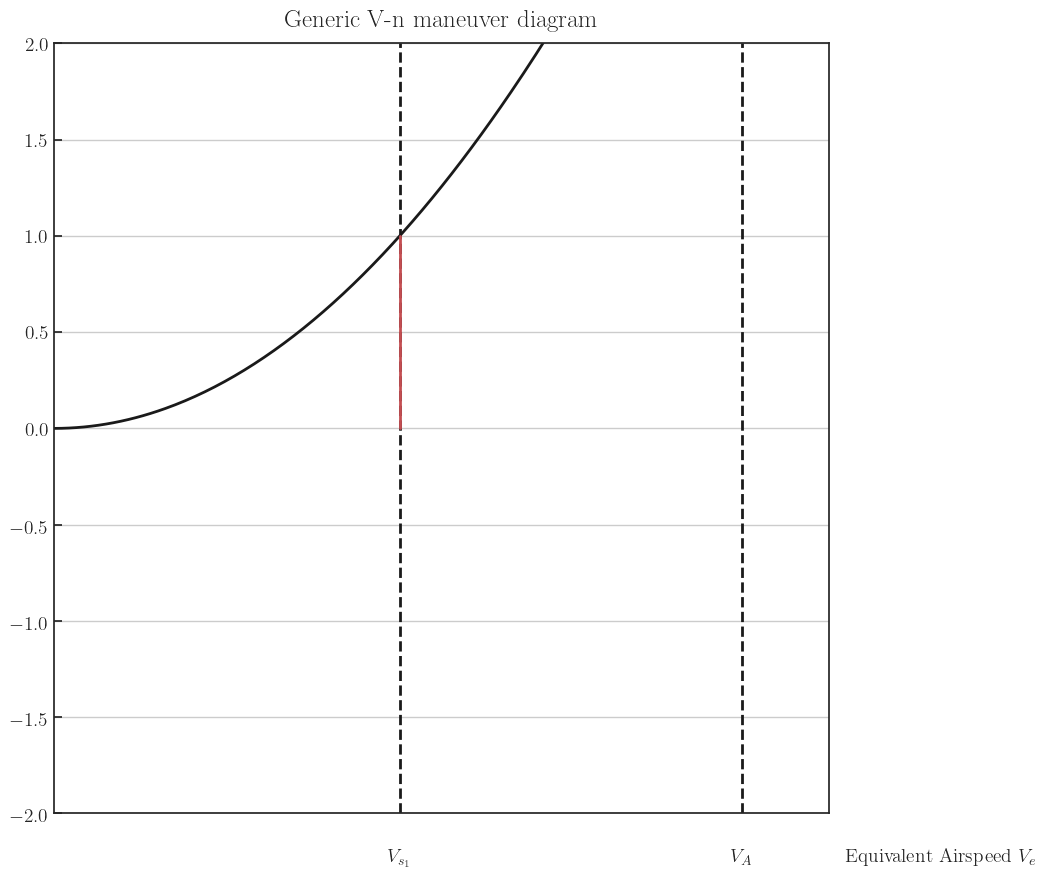
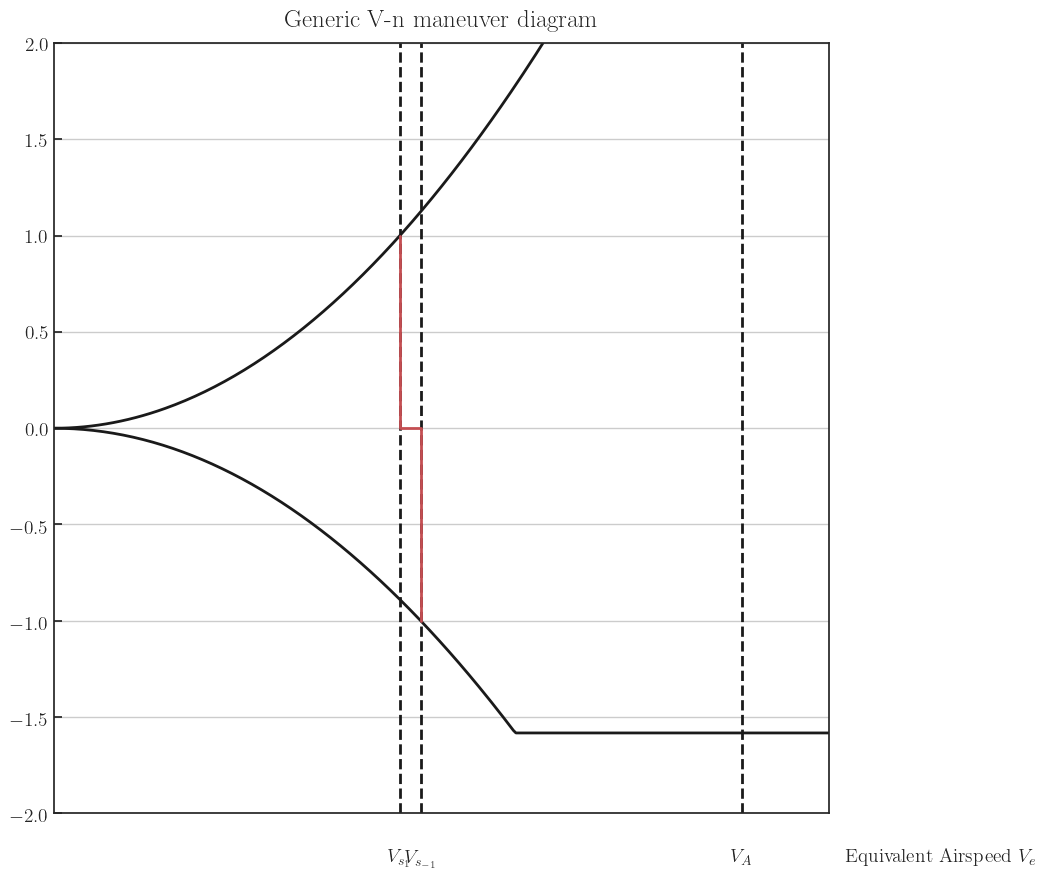
minor update
TVG 04.23.2021

diff --git a/Vn_Diagram/VnD.py b/Vn_Diagram/VnD.py
@@ -27,11 +27,11 @@ from VnDF import ALtr
 #### Parameters
 W =  2922.5 #lbf = 13000 N
 n_max =  2.1+(24000/(W+10000)) # formula provided by FAR part 23
-n_min =  0.4*n_max # formula provided by FAR part 23
+n_min =  -0.4*n_max # formula provided by FAR part 23
 S =  172.27 #ft^2
 rho = 0.00237 #slug/ft^3
 CL_max = 1.8 # Based on FS data
-CL_min = 1.6 # Best guess
+CL_min = -1.6 # Best guess
 unit = 'e' # English units
 
 #### Calculation
@@ -65,7 +65,7 @@ g.text(Vs/Vmax+0.025, 0.06, r'$V_s$', ha='center') # The location of the notatio
 g.text(VA/Vmax+0.010, 0.06, r'$V_A$', ha='center') # The location of the notation can be adjusted 
 plt.gca().axes.get_xaxis().set_visible(False)
 plt.savefig('%s/Figure_TD.png'%(savedir))
-plt.show()
+# plt.show()
 ############################################################
 
 ###################### Maneuvering Diagram ###################### 
@@ -95,7 +95,7 @@ plt.text(Vsn, -2.25, r'$V_{s_{-1}}$', ha='center') # The location of the notatio
 plt.text(Vmax*0.9, -2.25, r'Equivalent Airspeed $V_e$', ha='center') # The location of the notation can be adjusted
 plt.gca().axes.get_xaxis().set_visible(False)
 plt.savefig('%s/Figure_MD.png'%(savedir))
-plt.show()
+# plt.show()
 ################################################################## 
 
 ###################### Gust Diagram ######################  
